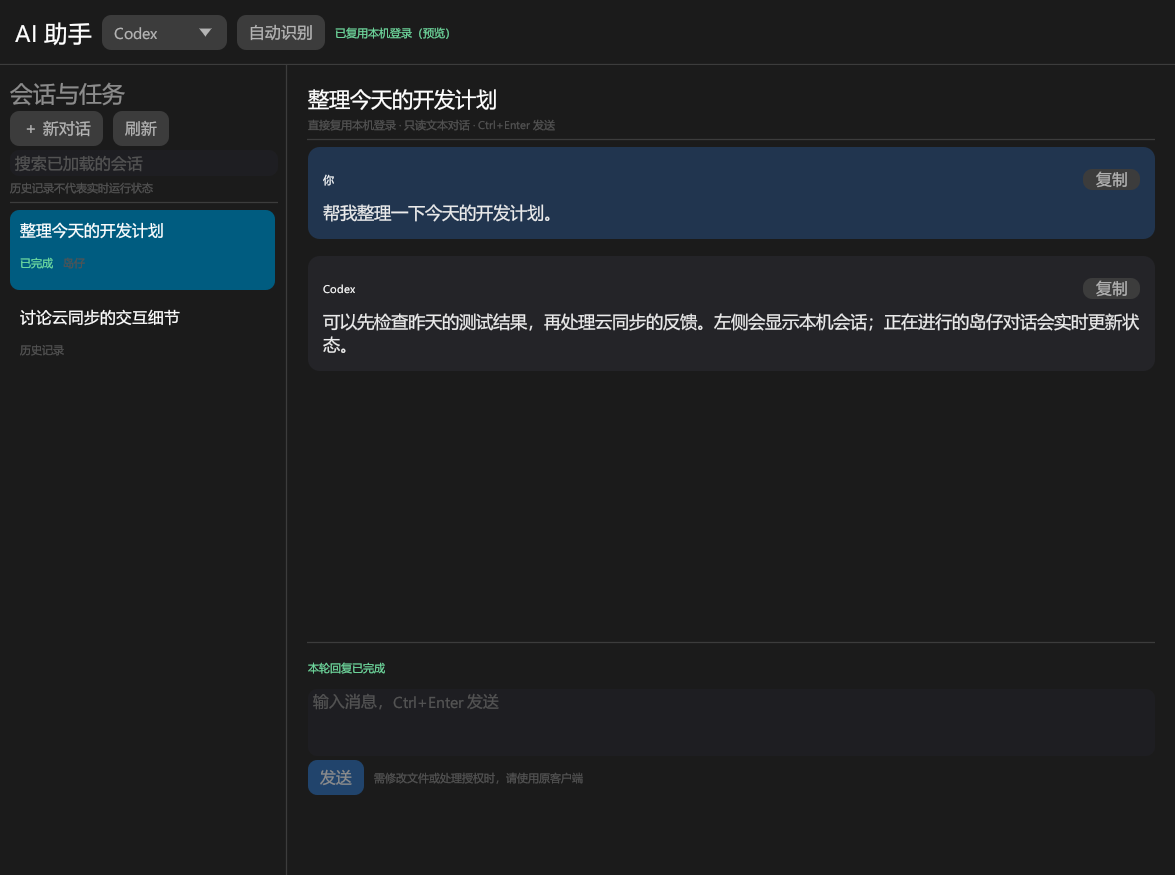
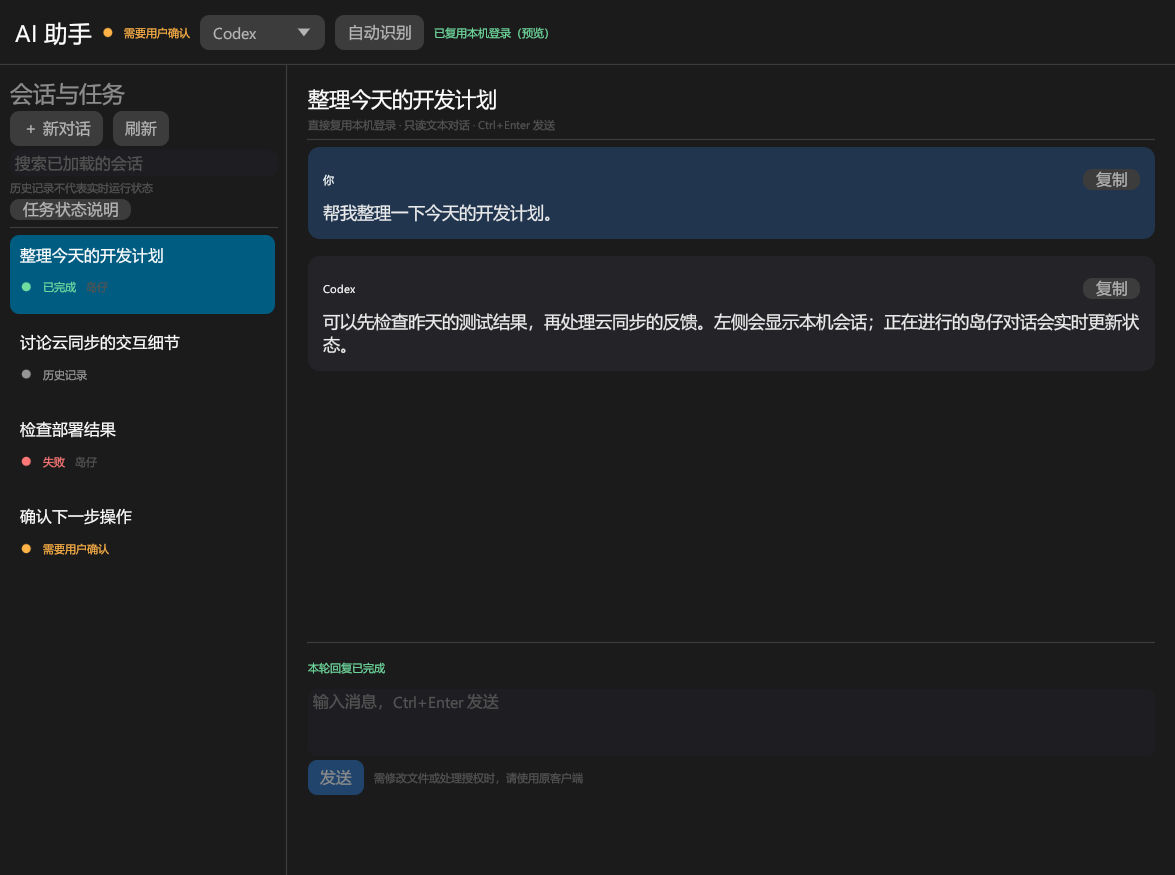
feat(AI助手): 添加任务状态灯与颜色说明
统一 AI 入口和任务列表的红色失败、绿色完成、橙色待确认状态，补充悬停说明并保留已确认的任务结果。

验证：12 项 AI 助手测试与浅色、深色界面渲染检查通过，测试程序构建成功。

diff --git a/src/ai_assistant_ui.rs b/src/ai_assistant_ui.rs
@@ -10,6 +10,7 @@ pub(crate) struct State {
     pub open: bool,
     pub busy: bool,
     pub unread: bool,
+    last_status: Option<Status>,
     focus: bool,
     service: Option<Service>,
     agents: Vec<Agent>,
@@ -28,6 +29,31 @@ pub(crate) struct State {
     refresh: Option<Instant>,
 }
 impl State {
+    pub fn indicator_status(&self) -> Status {
+        if self.last_status == Some(Status::Waiting)
+            || self.tasks.iter().any(|t| t.status == Status::Waiting)
+        {
+            return Status::Waiting;
+        }
+        if self.busy {
+            return Status::Running;
+        }
+        if let Some(status) = self.last_status {
+            return status;
+        }
+        if self.tasks.iter().any(|t| t.status == Status::Failed) {
+            return Status::Failed;
+        }
+        Status::History
+    }
+    pub fn status_tooltip(&self) -> String {
+        let current = match self.indicator_status() {
+            Status::History => "暂无已确认的实时任务状态",
+            Status::Waiting => "需要用户确认，请在原客户端处理",
+            status => status.label(),
+        };
+        format!("AI 任务状态\n当前：{current}\n\n红灯：执行失败\n绿灯：执行完成\n橙灯：需要用户确认\n蓝灯：正在执行\n灰灯：空闲、已停止或状态未知\n\n点击打开 AI 助手")
+    }
     pub fn open(&mut self, ctx: &egui::Context) {
         self.open = true;
         self.focus = true;
@@ -151,6 +177,9 @@ impl State {
             self.receive(event);
         }
         if disconnected {
+            if self.busy {
+                self.last_status = Some(Status::Failed);
+            }
             self.service = None;
             self.connecting = false;
             self.loading = false;
@@ -255,6 +284,7 @@ impl State {
                 if old.as_ref().is_some_and(|s| s.starts_with("pending-")) {
                     self.tasks.retain(|t| Some(&t.id) != old.as_ref());
                 }
+                self.last_status = Some(Status::Running);
                 self.selected = Some(id.clone());
                 self.provider = Some(provider);
                 self.busy = true;
@@ -304,6 +334,7 @@ impl State {
                 }
             }
             Event::Status { id, status, note } => {
+                self.last_status = Some(status);
                 if let Some(task) = self.tasks.iter_mut().find(|t| t.id == id) {
                     task.status = status;
                     task.updated = chrono::Utc::now().timestamp();
@@ -323,6 +354,7 @@ impl State {
                 self.loading = false;
                 self.connecting = false;
                 if let Some(text) = self.pending_input.take() {
+                    self.last_status = Some(Status::Failed);
                     self.input = text;
                     if self.messages.last().is_some_and(|m| m.user) {
                         self.messages.pop();
@@ -344,26 +376,71 @@ impl State {
         }
     }
     fn theme_color(ui: &egui::Ui, status: Status) -> Color32 {
-        match status {
-            Status::Running => {
-                if ui.visuals().dark_mode {
-                    Color32::from_rgb(140, 190, 255)
-                } else {
-                    Color32::from_rgb(35, 98, 180)
-                }
+        light_color(status, ui.visuals().dark_mode)
+    }
+    fn legend(ui: &mut egui::Ui) {
+        ui.label(RichText::new("AI 任务状态说明").strong());
+        for (status, label) in [
+            (Status::Failed, "红灯：执行失败"),
+            (Status::Completed, "绿灯：执行完成"),
+            (Status::Waiting, "橙灯：需要用户确认"),
+            (Status::Running, "蓝灯：正在执行"),
+            (Status::History, "灰灯：空闲、已停止或状态未知"),
+        ] {
+            status_row(ui, status, label);
+        }
+        ui.small("确认或授权操作请在原客户端处理；历史记录不会推测成已完成。");
+    }
+}
+pub(crate) fn light_color(status: Status, dark: bool) -> Color32 {
+    match status {
+        Status::Running => {
+            if dark {
+                Color32::from_rgb(140, 190, 255)
+            } else {
+                Color32::from_rgb(35, 98, 180)
             }
-            Status::Completed => {
-                if ui.visuals().dark_mode {
-                    Color32::from_rgb(112, 221, 160)
-                } else {
-                    Color32::from_rgb(25, 117, 65)
-                }
+        }
+        Status::Completed => {
+            if dark {
+                Color32::from_rgb(112, 221, 160)
+            } else {
+                Color32::from_rgb(25, 117, 65)
             }
-            Status::Failed => ui.visuals().error_fg_color,
-            Status::Waiting => ui.visuals().warn_fg_color,
-            _ => ui.visuals().weak_text_color(),
+        }
+        Status::Failed => {
+            if dark {
+                Color32::from_rgb(255, 120, 120)
+            } else {
+                Color32::from_rgb(190, 43, 53)
+            }
+        }
+        Status::Waiting => {
+            if dark {
+                Color32::from_rgb(255, 178, 70)
+            } else {
+                Color32::from_rgb(181, 92, 9)
+            }
+        }
+        _ => {
+            if dark {
+                Color32::from_gray(150)
+            } else {
+                Color32::from_gray(105)
+            }
         }
     }
+}
+fn status_row(ui: &mut egui::Ui, status: Status, text: &str) -> egui::Response {
+    ui.horizontal(|ui| {
+        let color = light_color(status, ui.visuals().dark_mode);
+        let (rect, _) = ui.allocate_exact_size(egui::vec2(10.0, 16.0), egui::Sense::hover());
+        ui.painter().circle_filled(rect.center(), 3.5, color);
+        ui.label(RichText::new(text).small().color(color));
+    })
+    .response
+}
+impl State {
     fn content(&mut self, ctx: &egui::Context) {
         egui::TopBottomPanel::top("assistant-toolbar")
             .frame(
@@ -374,6 +451,17 @@ impl State {
             .show(ctx, |ui| {
                 ui.horizontal_wrapped(|ui| {
                     ui.label(RichText::new("AI 助手").size(19.0).strong());
+                    let status = self.indicator_status();
+                    status_row(
+                        ui,
+                        status,
+                        if status == Status::History {
+                            "暂无实时状态"
+                        } else {
+                            status.label()
+                        },
+                    )
+                    .on_hover_ui(Self::legend);
                     let selected = self.provider.map(Provider::name).unwrap_or("自动识别中");
                     ui.add_enabled_ui(!self.busy && !self.loading && !self.connecting, |ui| {
                         egui::ComboBox::from_id_salt("assistant-provider")
@@ -467,6 +555,7 @@ impl State {
                         .small()
                         .color(ui.visuals().weak_text_color()),
                 );
+                ui.small_button("任务状态说明").on_hover_ui(Self::legend);
                 ui.separator();
                 let tasks: Vec<_> = self
                     .tasks
@@ -507,11 +596,8 @@ impl State {
                                             .truncate(),
                                     );
                                     ui.horizontal(|ui| {
-                                        ui.label(
-                                            RichText::new(task.status.label())
-                                                .small()
-                                                .color(Self::theme_color(ui, task.status)),
-                                        );
+                                        status_row(ui, task.status, task.status.label())
+                                            .on_hover_ui(Self::legend);
                                         if task.owned {
                                             ui.label(
                                                 RichText::new("岛仔")
@@ -727,6 +813,7 @@ impl State {
             note: "已复用本机登录（预览）".into(),
         }];
         self.selected = Some("demo-chat".into());
+        self.last_status = Some(Status::Completed);
         self.tasks = vec![
             Task {
                 provider: Provider::Codex,
@@ -741,6 +828,22 @@ impl State {
                 id: "demo-history".into(),
                 title: "讨论云同步的交互细节".into(),
                 status: Status::History,
+                updated: 0,
+                owned: false,
+            },
+            Task {
+                provider: Provider::Codex,
+                id: "demo-failed".into(),
+                title: "检查部署结果".into(),
+                status: Status::Failed,
+                updated: 0,
+                owned: true,
+            },
+            Task {
+                provider: Provider::Codex,
+                id: "demo-confirm".into(),
+                title: "确认下一步操作".into(),
+                status: Status::Waiting,
                 updated: 0,
                 owned: false,
             },
@@ -855,5 +958,33 @@ mod tests {
         });
         assert!(!state.busy);
         assert!(state.unread);
+    }
+    #[test]
+    fn status_lights_distinguish_failure_completion_and_confirmation_after_opening() {
+        let mut state = State::default();
+        state.selected = Some("chat".into());
+        for status in [Status::Failed, Status::Completed, Status::Waiting] {
+            state.receive(Event::Status {
+                id: "chat".into(),
+                status,
+                note: status.label().into(),
+            });
+            assert_eq!(state.indicator_status(), status);
+            state.open(&egui::Context::default());
+            assert_eq!(
+                state.indicator_status(),
+                status,
+                "打开窗口不能把失败或完成提示变成绿灯/灰灯"
+            );
+        }
+        assert!(state.status_tooltip().contains("橙灯：需要用户确认"));
+        for dark in [false, true] {
+            let red = light_color(Status::Failed, dark);
+            assert!(red.r() > red.g());
+            let green = light_color(Status::Completed, dark);
+            assert!(green.g() > green.r());
+            let orange = light_color(Status::Waiting, dark);
+            assert!(orange.r() > orange.g() && orange.g() > orange.b());
+        }
     }
 }

diff --git a/src/app.rs b/src/app.rs
@@ -2319,10 +2319,10 @@ impl App {
     // 面板主体：页标题 + 页面（带切页过渡）+ 翻页箭头 + 页码豆
     // ---------------------------------------------------------------
     fn panel_body(&mut self, c: &Card, env: &Env, cmds: &mut Vec<Cmd>) {
-        let ai=c.hit(350.0,4.0,26.0,28.0,"ai-assistant-open").on_hover_text(if self.ai_assistant.busy{"AI 助手 · 正在回复"}else{"打开 AI 助手：对话与任务"});
-        let color=if self.ai_assistant.unread{theme::GREEN}else if self.ai_assistant.busy{theme::CYAN}else{theme::GRAY};
-        c.text(363.0,23.0,"AI",11.5,W::Bold,if ai.hovered(){theme::WHITE}else{color},H::Center);
-        if self.ai_assistant.busy||self.ai_assistant.unread{c.circle(374.0,8.0,2.5,color);}
+        let ai=crate::quota_ui::bar_tooltip(c.hit(350.0,4.0,26.0,28.0,"ai-assistant-open"),self.ai_assistant.status_tooltip());
+        let color=crate::ai_assistant_ui::light_color(self.ai_assistant.indicator_status(),true);
+        c.text(363.0,23.0,"AI",11.5,W::Bold,if ai.hovered(){theme::WHITE}else{theme::GRAY},H::Center);
+        c.circle(374.0,8.0,3.0,color);
         if ai.clicked(){self.ai_assistant.open(c.ui.ctx());}
         let settings=c.hit(380.0,4.0,28.0,28.0,"page-settings").on_hover_text(format!("打开{}设置窗口",PAGE_NAMES[self.page]));
         let (hover,press)=c.hover_t(&settings);

diff --git a/src/ai_assistant.rs b/src/ai_assistant.rs
@@ -44,7 +44,7 @@ impl Status {
             Self::History => "历史记录",
             Self::Idle => "空闲",
             Self::Running => "进行中",
-            Self::Waiting => "等待处理",
+            Self::Waiting => "需要用户确认",
             Self::Completed => "已完成",
             Self::Failed => "失败",
             Self::Cancelled => "已停止",

diff --git a/docs/ai-assistant.md b/docs/ai-assistant.md
@@ -22,7 +22,9 @@
 ## 会话与任务状态
 
 - 左侧展示本机最近的会话，支持刷新、加载更多和搜索已加载的会话。
-- 岛仔发起的回复按真实事件显示进行中、等待处理、已完成、失败或已停止。
+- AI 入口和任务列表使用同一套状态灯：红灯表示执行失败，绿灯表示执行完成，橙灯表示需要用户确认；蓝灯表示正在执行，灰灯表示空闲、已停止或状态未知。
+- 悬停小岛上的 AI 入口、窗口顶部状态或任务状态灯可查看说明，左侧也有「任务状态说明」入口。需要确认的任务优先显示橙灯，授权操作仍在原客户端处理。
+- 岛仔发起的回复按真实事件更新状态；打开窗口不会把失败提示改成绿灯，也不会清除已确认的完成状态。
 - 原客户端里的会话若没有接入实时状态，仅标记为「历史记录」，不推测它正在运行或已经完成。新启动的独立 Codex 连接无法知道另一个独立客户端内存中的全部任务状态。
 - 窗口打开且没有进行中的岛仔回复时，每 30 秒刷新列表；窗口关闭后，当前回复仍可继续，完成后小岛 AI 入口显示提示点。
 - 这里的任务指本地 AI 会话及回复状态，不包含 Codex Cloud 任务、远程 OpenClaw 任务或全部第三方服务后台作业。
